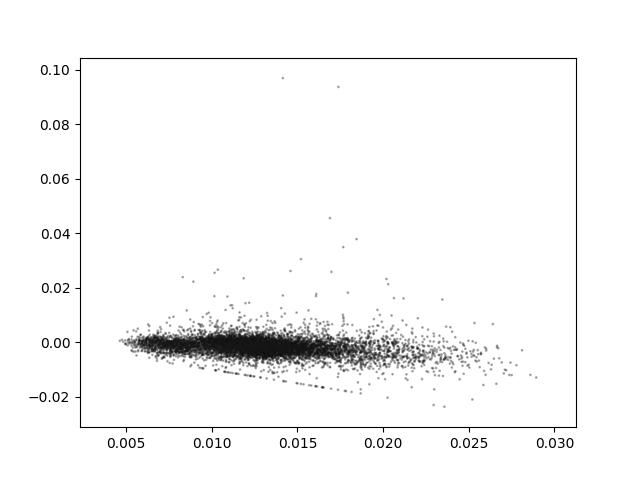
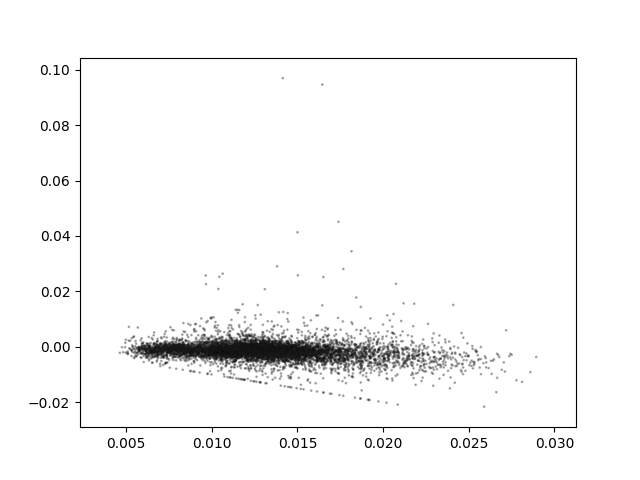
0.1

diff --git a/data.py b/data.py
@@ -584,7 +584,7 @@ def save_results(data, mmm, aa):
 sql_code = '''SELECT cod_cont, ano_modelo, cod_tarif, regiao, inicio_vig, fim_vig, sexo, data_nasc, sinistro::text, endosso::text, clas_bonus, tipo_franq, val_franq, is_casco, is_rcdmat, is_rcdc, is_rcdmor, is_app_ma, is_app_ipa, is_app_dmh, pre_casco, pre_rcdmat, pre_rcdc, pre_rcdmor, pre_app_ma, pre_app_ia, pre_app_dm, pre_outros, perc_bonus FROM rs_:mmm:aa WHERE tipo_pes = 'F' AND cobertura = '1' AND cod_cont in ('1', '2') AND ano_modelo > 1900 AND ano_modelo < 2018 AND cod_tarif in (' 10', '10 ', ' 11', '11 ', '14A', '14B', '14C', ' 15', '15 ', ' 16', '16 ', ' 17', '17 ', ' 18', '18 ', ' 19', '19 ', ' 20', '20 ', ' 21', '21 ', ' 22', '22 ', ' 23', '23 ') AND regiao in ('01', '02', '03', '04', '05', '06', '07', '08', '09', '10', '11', '12', '13', '14', '15', '16', '17', '18', '19', '20', '21', '22', '23', '24', '25', '26', '27', '28', '29', '30', '31', '32', '33', '34', '35', '36', '37', '38', '39', '40', '41') AND sexo in ('F', 'M') AND data_nasc > '1900-01-01' AND date_part('year', data_nasc) < date_part('year', inicio_vig) - 16 AND clas_bonus in ('0', '1', '2', '3', '4', '5', '6', '7', '8', '9') AND tipo_franq in ('1', '2', '3', '4', '9') AND val_franq >= 0 AND val_franq < 1e6 AND is_casco >= 0 AND is_casco < 1e7 AND is_rcdmat >= 0 AND is_rcdmat < 5e7 AND is_rcdc >= 0 AND is_rcdc < 5e7 AND is_rcdmor >= 0 AND is_rcdmor < 5e7 AND is_app_ma >= 0 AND is_app_ma < 5e7 AND is_app_ipa >= 0 AND is_app_ipa < 5e7 AND is_app_dmh >= 0 AND is_app_dmh < 5e7 AND pre_casco >= 0 AND pre_casco < 1e6 AND pre_rcdmat >= 0 AND pre_rcdmat < 1e6 AND pre_rcdc >= 0 AND pre_rcdc < 1e6 AND pre_rcdmor >= 0 AND pre_rcdmor < 1e6 AND pre_app_ma >= 0 AND pre_app_ma < 1e6 AND pre_app_ia >= 0 AND pre_app_ia < 1e6 AND pre_app_dm >= 0 AND pre_app_dm < 1e6 AND pre_outros >= 0 AND pre_outros < 1e6 AND perc_bonus >= 0 AND perc_bonus < 99;'''
 
 if __name__ == '__main__':
-    years = ('12', '13', '14', '15', '16')
+    years = ('08', '09', '10', '11')
     months = ('jan', 'fev', 'mar', 'abr', 'mai', 'jun', 'jul', 'ago', 'set', 'out', 'nov', 'dez')
     for aa in years:
         for mmm in months:

diff --git a/models.py b/models.py
@@ -12,7 +12,7 @@ import scipy.stats as st
 import pdb
 import time
 
-# Raise exception on runtime warnings, lower bounds and precision parameters:
+# Raise exception on runtime warnings, plus lower bounds and precision parameters:
 
 np.seterr(all='raise')
 lb_log = 1e-323
@@ -81,7 +81,7 @@ def grab_results_db(prefix, model, claim_type, keys=None):
 
 class Estimation:
     '''
-    Provides estimated parameters of Poisson regression model.
+    Estimation of parameters of regression models.
 
     Parameters:
     -----------
@@ -662,6 +662,9 @@ class Stdout:
                     cell_res[i, 1] = np.average(X[:, [0]])
             else:
                 ind_res[key] = np.array([])
+                dev_local = 0
+                dev_y_bar_local = 0
+                Pearson_local = 0
                 cell_res[i, 1] = 0
 
             cell_res[i, 0] = len(X)
@@ -715,7 +718,7 @@ class Stdout:
 if __name__ == '__main__':
     for model in ('Logit', 'Probit', 'C-loglog', 'LNormal', 'Gamma', 'InvGaussian', 'Poisson', 'NB2'):
         for claim_type in ('casco', 'rcd'):
-            x = Estimation(model, claim_type)
-            x.save_estimation_results()
+#            x = Estimation(model, claim_type)
+#            x.save_estimation_results()
             y = Stdout(model, claim_type)
             y.save_stdout_results()

diff --git a/diagnostics.py b/diagnostics.py
@@ -43,9 +43,10 @@ class Diagnostics:
 
     def plot01(self):
         '''Plots raw residual of grouped data, defined as y_bar - mu, against mu'''
-        x = self.cell_res[:, [2]]
-        y = self.cell_res[:, [1]] - self.cell_res[:, [2]]
-        color = 1 - (self.cell_res[:, [0]] / np.amax(self.cell_res[:, [0]])) 
+        index = np.where(self.cell_res[:, [0]] > 0)[0]
+        x = self.cell_res[:, [2]][index]
+        y = self.cell_res[:, [1]][index] - self.cell_res[:, [2]][index]
+        color = 1 - (self.cell_res[:, [0]][index] / np.amax(self.cell_res[:, [0]][index])) 
         color = np.hstack((color, color, color))
         color = color**2 * .1
         plt.scatter(x, y, s=1, c=color, alpha=.3)
@@ -55,6 +56,6 @@ class Diagnostics:
 
 if __name__ == '__main__':
     for model in ('Poisson', 'NB2', 'Logit', 'Probit', 'C-loglog', 'LNormal', 'Gamma', 'InvGaussian'):
-        for claim_type in ('casco', 'rcd'):
+        for claim_type in ('casco', 'rcd',):
             x = Diagnostics(model, claim_type)
             x.plot01()

diff --git a/aux_count5.py b/aux_count5.py
@@ -1,7 +1,6 @@
-###############################################################################
-## Loads from data.py and transforms data to make it suitable to frequency   ##
-## and severity models of categorical covariates, according to coverage type ##
-###############################################################################
+##############################################
+## Auxiliary code for counting observations ##
+##############################################
 
 
 import os

diff --git a/tables/freq_diags_table_template.tex b/tables/freq_diags_table_template.tex
@@ -1,5 +1,5 @@
 \begin{table}
-    \small
+    \scriptsize
     \centering
     \begin{threeparttable}
     \caption{\large{Diagnostics for baseline models of frequency data}}
